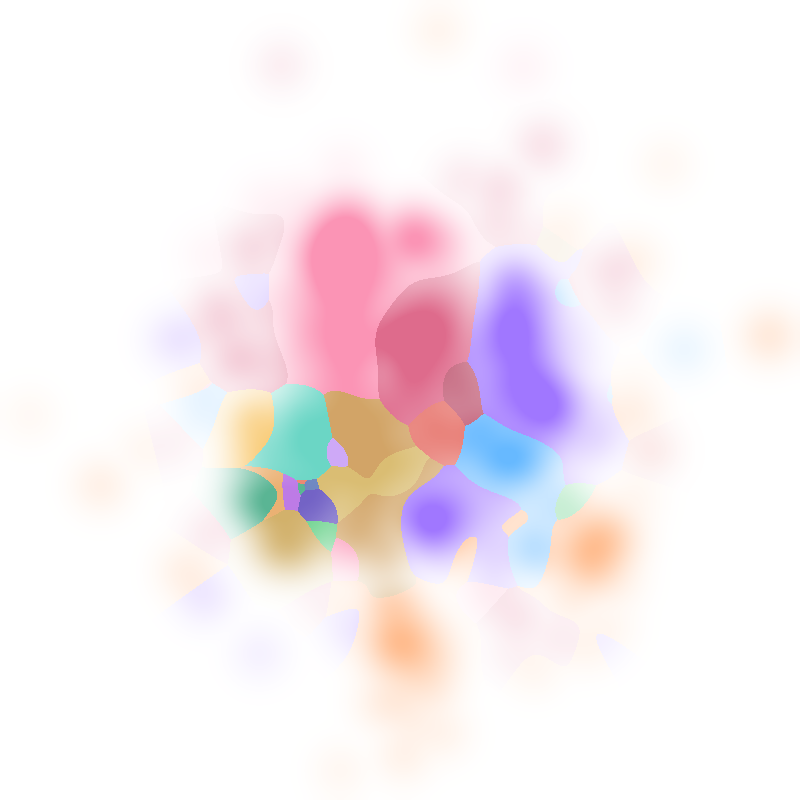
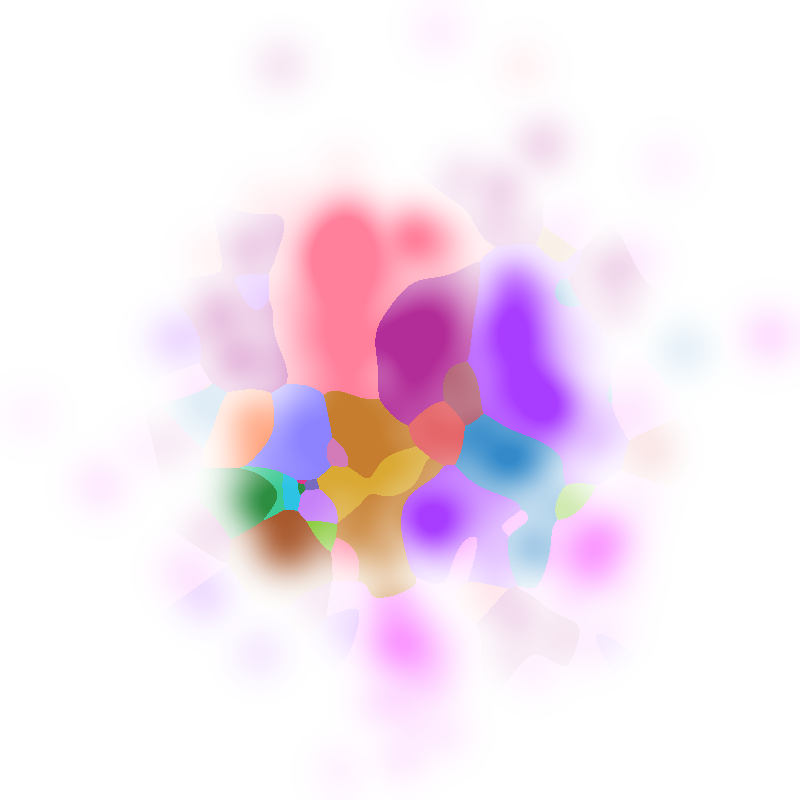
Color update

diff --git a/src/bookGraph/bookGraphConfig.js b/src/bookGraph/bookGraphConfig.js
@@ -10,31 +10,31 @@ export const LAYERS = {
 
 // Named genre → star colour. Keys must match the `genre` strings the API returns.
 export const GENRE_PALETTE = {
-  'Fantasy':            { r: 140, g: 90,  b: 255 },
-  'Science Fiction':    { r: 70,  g: 170, b: 255 },
-  'History':            { r: 210, g: 175, b: 85  },
-  'Historical Fiction': { r: 200, g: 145, b: 70  },
-  'Biography/Memoir':   { r: 75,  g: 205, b: 185 },
-  'Mystery':            { r: 215, g: 75,  b: 115 },
-  'Psychology':         { r: 175, g: 95,  b: 225 },
-  'Science/Nature':     { r: 75,  g: 200, b: 115 },
-  'Self Help':          { r: 230, g: 160, b: 85  },
-  'Romance':            { r: 250, g: 125, b: 165 },
-  'Thriller':           { r: 225, g: 85,  b: 75  },
-  'Classics':           { r: 200, g: 190, b: 135 },
-  'Fiction':            { r: 160, g: 125, b: 255 },
-  'Nonfiction':         { r: 145, g: 178, b: 218 },
-  'Horror':             { r: 180, g: 60,  b: 90  },
-  'Graphic Novel':      { r: 255, g: 145, b: 70  },
-  'Art/Design':         { r: 230, g: 110, b: 85  },
-  'Economics/Business': { r: 55,  g: 165, b: 125 },
-  'Food':               { r: 245, g: 175, b: 45  },
-  'Philosophy':         { r: 85,  g: 65,  b: 185 },
-  'Plays/Drama':        { r: 160, g: 45,  b: 80  },
-  'Poetry':             { r: 195, g: 150, b: 245 },
-  'Politics':           { r: 80,  g: 110, b: 180 },
-  'Religion/Spirituality': { r: 200, g: 160, b: 75 },
-  'Travel':             { r: 90,  g: 200, b: 225 },
+  'Fantasy':            { r: 150, g: 20,  b: 255 },
+  'Science Fiction':    { r: 8,   g: 113, b: 190 },
+  'History':            { r: 210, g: 150, b: 8   },
+  'Historical Fiction': { r: 186, g: 97,  b: 0   },
+  'Biography/Memoir':   { r: 117, g: 105, b: 255 },
+  'Mystery':            { r: 162, g: 0,   b: 130 },
+  'Psychology':         { r: 0,   g: 182, b: 223 },
+  'Science/Nature':     { r: 101, g: 186, b: 0   },
+  'Self Help':          { r: 20,  g: 190, b: 125 },
+  'Romance':            { r: 255, g: 101, b: 134 },
+  'Thriller':           { r: 219, g: 45,  b: 49  },
+  'Classics':           { r: 130, g: 49,  b: 158 },
+  'Fiction':            { r: 162, g: 150, b: 255 },
+  'Nonfiction':         { r: 121, g: 134, b: 0   },
+  'Horror':             { r: 154, g: 45,  b: 69  },
+  'Graphic Novel':      { r: 247, g: 85,  b: 255 },
+  'Art/Design':         { r: 215, g: 8,   b: 113 },
+  'Economics/Business': { r: 0,   g: 117, b: 24  },
+  'Food':               { r: 255, g: 109, b: 49  },
+  'Philosophy':         { r: 186, g: 101, b: 247 },
+  'Plays/Drama':        { r: 194, g: 0,   b: 215 },
+  'Poetry':             { r: 202, g: 93,  b: 170 },
+  'Politics':           { r: 89,  g: 73,  b: 178 },
+  'Religion/Spirituality': { r: 150, g: 53, b: 0 },
+  'Travel':             { r: 77,  g: 154, b: 255 },
 }
 
 // Seeded fallback colours for genres not in GENRE_PALETTE

diff --git a/src/bookGraph/BookGraphStarMap.jsx b/src/bookGraph/BookGraphStarMap.jsx
@@ -363,7 +363,7 @@ function StarMap({ data, corpus, canvasOutRef, onSelect, selectedKey }) {
       if (visibleRef.current.corpus && terrainImgRef.current && _tb) {
         const [x0, y0] = worldToScreen(_tb.minX, _tb.maxY, W, H)
         const [x1, y1] = worldToScreen(_tb.maxX, _tb.minY, W, H)
-        ctx.globalAlpha = 0.6
+        ctx.globalAlpha = 0.5
         ctx.drawImage(terrainImgRef.current, x0, y0, x1 - x0, y1 - y0)
         ctx.globalAlpha = 1
       }
@@ -557,7 +557,8 @@ function StarMap({ data, corpus, canvasOutRef, onSelect, selectedKey }) {
     }
 
     const onMove = (e) => {
-      const mx = e.clientX - canvasRect.left, my = e.clientY - canvasRect.top
+      const rect = canvas.getBoundingClientRect()
+      const mx = e.clientX - rect.left, my = e.clientY - rect.top
       if (dragging.current) {
         const dx = mx - dragging.current.x, dy = my - dragging.current.y
         if (Math.hypot(dx, dy) > 4) dragMoved.current = true
@@ -576,14 +577,16 @@ function StarMap({ data, corpus, canvasOutRef, onSelect, selectedKey }) {
       }
     }
     const onDown = (e) => {
-      const mx = e.clientX - canvasRect.left, my = e.clientY - canvasRect.top
+      const rect = canvas.getBoundingClientRect()
+      const mx = e.clientX - rect.left, my = e.clientY - rect.top
       dragMoved.current = false
       dragging.current = { x: mx, y: my }
       canvas.style.cursor = 'grabbing'
     }
     const onClick = (e) => {
       if (dragMoved.current) return
-      const mx = e.clientX - canvasRect.left, my = e.clientY - canvasRect.top
+      const rect = canvas.getBoundingClientRect()
+      const mx = e.clientX - rect.left, my = e.clientY - rect.top
       const found = pickPoint(mx, my)
       if (found && onSelect) onSelect(found.p)
     }
@@ -591,7 +594,8 @@ function StarMap({ data, corpus, canvasOutRef, onSelect, selectedKey }) {
     const onLeave = () => { hoverRef.current = null; setHover(null); dragging.current = null }
     const onWheel = (e) => {
       e.preventDefault()
-      const mx = e.clientX - canvasRect.left, my = e.clientY - canvasRect.top
+      const rect = canvas.getBoundingClientRect()
+      const mx = e.clientX - rect.left, my = e.clientY - rect.top
       const v = view.current, c = center.current
       const bx = baseScale.current.x * v.z, by = baseScale.current.y * v.z
       const wx = (mx - W / 2 - v.panX) / bx + c.x
